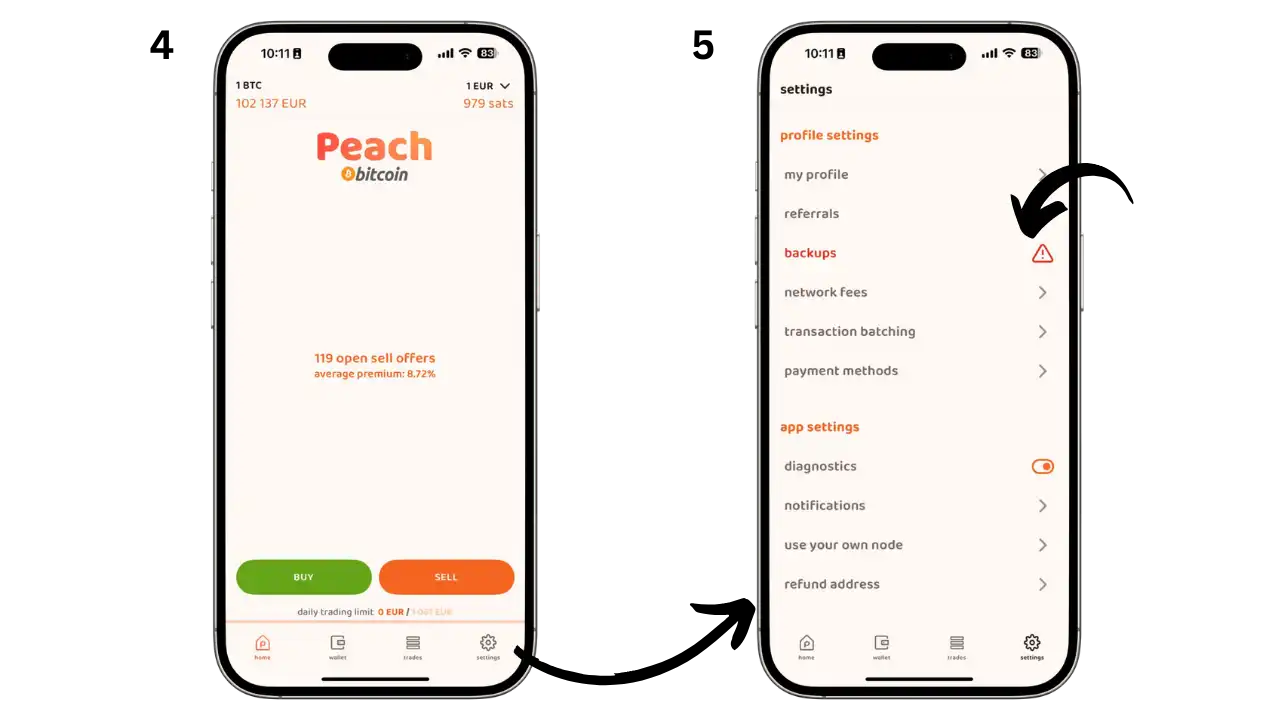
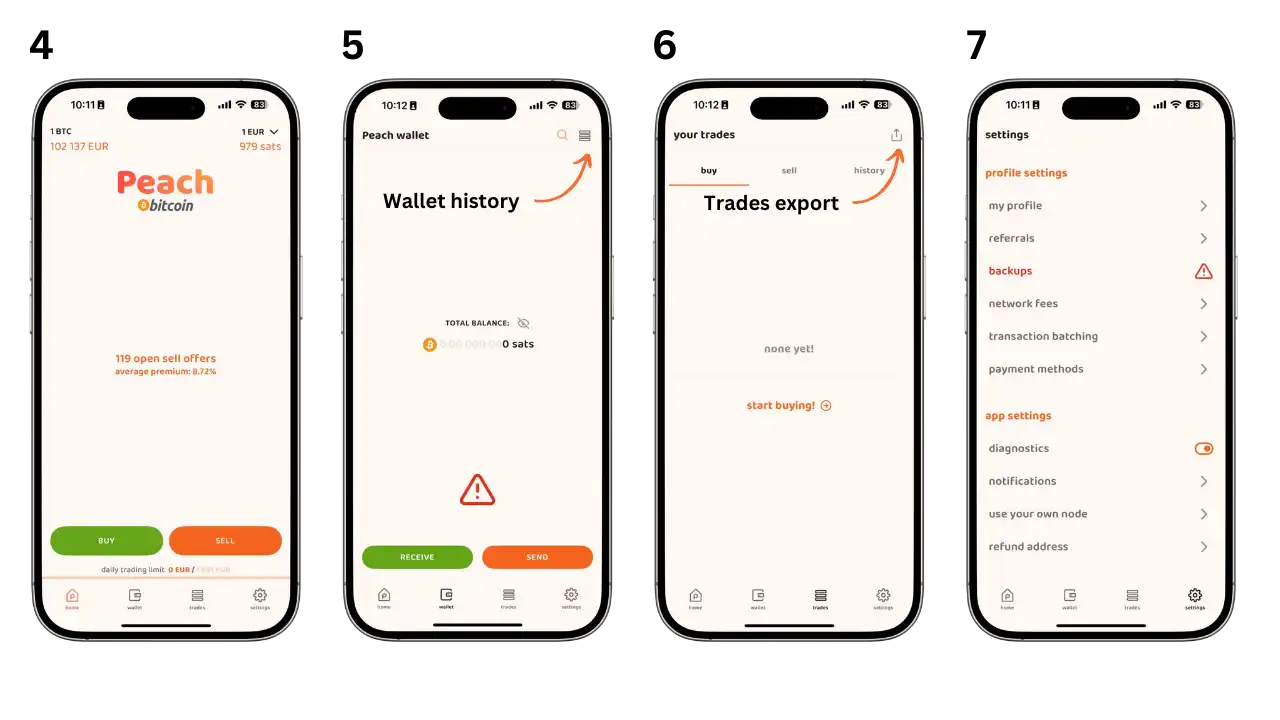
update and add images

Changed region(s): [[0.0, 0.0306, 0.9688, 0.9778]]

diff --git a/tutorials/exchange/peach-v2/fr.md b/tutorials/exchange/peach-v2/fr.md
@@ -5,31 +5,19 @@ description: Guide complet pour utiliser Peach et échanger des bitcoins en P2P
 
 ![cover](assets/cover.webp)
 
-# Introduction
+## Introduction
 
 Les échanges de pair-à-pair (P2P) sans KYC sont essentiels pour préserver la confidentialité et l'autonomie financière des utilisateurs. Ils permettent des transactions directes entre individus sans nécessiter de vérification d'identité, ce qui est crucial pour ceux qui valorisent la vie privée. Pour une compréhension plus approfondie des concepts théoriques, consultez le cours BTC204 :
 
 https://planb.network/courses/btc204
 
-## Qu'est-ce que Peach ?
+### 1. Qu'est-ce que Peach ?
 
 Peach est une plateforme d'échange P2P qui permet aux utilisateurs d'acheter et de vendre des bitcoins sans KYC. Elle offre une interface intuitive et des fonctionnalités de sécurité avancées. Comparée à d'autres solutions comme Bisq, HodlHodl, et Robosat, Peach se distingue par sa simplicité d'utilisation et ses frais réduits.
 
-### Avantages de Peach :
+### 2. Confidentialité et Données Collectées
 
-- **Pas de KYC requis** : Préserve la confidentialité des utilisateurs.
-- **Aucun accès aux données bancaires** : Peach n'a pas accès à vos informations bancaires ni à votre identité.
-- **Interface intuitive** : Facile à utiliser pour les utilisateurs intermédiaires.
-- **Open Source** : Le code source est public et vérifiable par la communauté.
-
-### Inconvénients de Peach :
-
-- **Liquidité limitée** : Moins de volume d'échange comparé à des plateformes plus établies.
-- **Risque réglementaire** : L'application est gérée par une entreprise suisse et est donc soumise à la réglementation suisse qui pourrait évoluer et potentiellement censurer l'application.
-
-## Confidentialité et Données Collectées
-
-### Quelles informations Peach collecte-t-elle ?
+**Quelles informations Peach collecte-t-elle ?**
 
 Peach s'efforce de stocker le minimum absolu de données sur ses utilisateurs. Voici un aperçu des données conservées sur ses serveurs :
 
@@ -50,111 +38,94 @@ Pour rappel un hash est une donnée rendue méconnaissable, similaire à un chif
 
 https://planb.network/fr/courses/cyp201
 
-
-
-### Qui peut voir mes détails de paiement ?
+**Qui peut voir mes détails de paiement ?**
 
 - Seule votre contrepartie peut voir vos détails de paiement
 - Les données sont transmises via les serveurs Peach mais sont entièrement chiffrées de bout en bout
 - En cas de litige, vos détails de paiement et l'historique des conversations seront visibles par le médiateur Peach assigné
 
-# Installation et Configuration
+## Installation et Configuration
 
-## 1. Installer l'application Peach
+### 1. Installer l'application Peach
 
 ![Installation de Peach](assets/fr/01.webp)
 
 1. Téléchargez l'application depuis [Peach Bitcoin](https://peachbitcoin.com/fr/quick-start/).
 2. Suivez les instructions d'installation sur votre appareil.
-3. Lors de l'installation, vous serez invité à choisir si vous souhaitez partager certaines données pour améliorer l'application Peach. (Mockup 1)
-4. Sur l'écran suivant (Mockup 2), vous aurez deux options : 
+3. Lors de l'installation, vous serez invité à choisir si vous souhaitez partager certaines données pour améliorer l'application Peach. (image 1)
+4. Sur l'écran suivant (image 2), vous aurez deux options : 
    - Si vous êtes un nouvel utilisateur, cliquez sur "New user" pour créer un nouveau profil
    - Si vous avez déjà un compte, utilisez "Restore" pour restaurer votre profil existant
 5. Si vous avez un code de parrainage, vous pouvez l'entrer à ce moment-là.
-6. Pour la restauration d'un compte existant (Mockup 3), vous aurez besoin : 
+6. Pour la restauration d'un compte existant (image 3), vous aurez besoin : 
    - De votre fichier de sauvegarde (backup)
    - Du mot de passe permettant de déchiffrer ce fichier
+### 2. Présentation des Écrans Principaux
 
-## 2. Comment sécuriser son portefeuille
+L'application Peach est organisée autour de quatre écrans principaux accessibles depuis la barre de navigation inférieure :
 
-### Comprendre votre compte Peach
+![Navigation dans l'application](assets/fr/02.webp)
 
-Un compte Peach n'est pas un compte traditionnel avec identifiant et mot de passe. C'est un fichier stocké localement sur votre téléphone, ce qui signifie que Peach n'a pas besoin de stocker vos données ni de connaître votre identité : vous gardez le contrôle. Ce fichier contient toutes vos données, des clés de votre portefeuille bitcoin à vos détails de paiement.
+- **Home** : L'écran principal pour acheter et vendre des bitcoins. C'est ici que vous pourrez créer de nouvelles transactions et accéder aux offres disponibles.
 
-Cette approche garantit une meilleure confidentialité mais implique aussi plus de responsabilité. La perte de votre téléphone sans sauvegarde signifie la perte d'accès à votre compte Peach et à vos fonds. Il est donc crucial de sauvegarder ce fichier et de le protéger avec un mot de passe robuste.
+- **Wallet** : Votre portefeuille bitcoin intégré qui vous permet de :
+  - Consulter votre solde
+  - Recevoir des bitcoins
+  - Envoyer des bitcoins
+  - Voir l'historique de vos transactions
 
-### Créer vos sauvegardes
+- **Trades** : Le centre de gestion de vos échanges où vous retrouverez :
+  - Vos transactions en cours
+  - L'historique complet de vos échanges
+  - Le statut de chaque transaction
 
-![Accéder aux sauvegardes](assets/fr/02.webp)
+- **Paramètres** : Le hub de configuration de votre compte permettant de :
+  - Gérer vos méthodes de paiement
+  - Configurer vos sauvegardes
+  - Personnaliser vos préférences
+  - Accéder à l'aide et au support
 
-1. Accédez aux paramètres depuis l'onglet en bas à droite de l'écran d'accueil (Mockup 4)
-2. Sélectionnez l'option "backups" dans le menu des paramètres (Mockup 5)
+### 3. Configurer ses moyens de paiements
 
-![Processus de sauvegarde](assets/fr/03.webp)
+![Accès aux paramètres de paiement](assets/fr/03.webp)
 
-3. Deux types de sauvegardes sont disponibles :
+Accédez aux méthodes de paiement via l'onglet Paramètres (image 8)
 
-#### Sauvegarde du fichier de compte (Mockup 6)
-- Cliquez sur "Create new backup"
-- Créez un mot de passe fort pour chiffrer votre fichier de sauvegarde
-- Conservez ce fichier dans un endroit sûr
+**Paiements en ligne**
 
-#### Sauvegarde de la phrase de récupération (Mockup 7)
-- Suivez les instructions pour afficher votre phrase de récupération
-- Notez soigneusement les mots dans l'ordre exact
-- Stockez cette sauvegarde dans un lieu sécurisé, idéalement différent de celui du fichier de compte
+![Configuration des paiements en ligne](assets/fr/04.webp)
+1. Cliquez sur le bouton pour ajouter un nouveau moyen de paiement
+2. Choisissez votre devise
+3. Sélectionnez votre méthode de paiement préférée
 
-### Différences entre les deux types de sauvegardes
+*Types de méthodes de paiement disponibles*
 
-**La sauvegarde du fichier** permet de restaurer votre compte Peach complet, incluant :
-- Votre portefeuille
-- Vos méthodes de paiement
-- L'historique des conversations
-- Les données de paiement
-- L'historique des transactions avec les détails des contreparties
-
-**La phrase de récupération** permet uniquement de récupérer :
-- L'accès à votre compte
-- Vos fonds bitcoin
-
-Vous perdrez :
-- L'historique des conversations
-- Les données de paiement
-- Les informations des contreparties dans l'historique des transactions
-
-Il est recommandé de réaliser les deux types de sauvegardes pour une sécurité optimale.
-
-## 3. Configurer ses moyens de paiements
-
-Pour maximiser vos opportunités d'échange sur Peach, il est important de configurer vos méthodes de paiement préférées. Voici comment procéder :
-
-### Accéder aux méthodes de paiement
-
-1. Ouvrez l'application Peach
-2. Allez dans **Paramètres > Méthodes de paiement**
-3. Choisissez entre paiement en ligne ou en espèces (rencontres)
-
-### Types de méthodes de paiement disponibles
-
-#### 1. Virements Bancaires
+***Les virements bancaires disponibles :***
 - SEPA (standard ou instantané)
 - Remplissez vos coordonnées bancaires SEPA
 
-#### 2. Portefeuilles en ligne
-- Plusieurs options disponibles selon votre pays
+***Les portefeuilles en ligne acceptés :***
+- Plusieurs options disponibles selon votre pays (Révolut, Paypal, Wise, Strike, etc)
 - Suivez les instructions pour ajouter vos identifiants
 
-#### 3. Cartes Cadeaux
+***La carte cadeaux utilisable :***
 - Amazon
-- Steam
-- Sélectionnez le pays d'émission de la carte
+- Saisissez le pays d'émission de la carte et ainsi que d'autres informations nécessaires
 
-#### 4. Options Nationales
+***Les options de paiement nationales :***
 Systèmes de paiement spécifiques par pays :
 - Satispay (Italie)
 - MB Way (Portugal)
 - Bizum (Espagne)
 - Faster Payments (Royaume-Uni)
+
+**Paiements en personne**
+
+![Configuration des paiements en personne](assets/fr/05.webp)
+1. Sélectionnez "Meetup"
+2. Puis sélectionner votre meetup parmi la liste
+
+
 
 ### Conseils d'utilisation
 
@@ -165,21 +136,116 @@ Systèmes de paiement spécifiques par pays :
 
 > **Note de sécurité** : Vos informations de paiement sont chiffrées et ne sont partagées qu'avec votre partenaire d'échange lors d'une transaction.
 
-# Acheter et Vendre des Bitcoins
+### 4. Comment sécuriser son portefeuille
 
-## 1. Comment Acheter des Bitcoins
+**Comprendre votre compte Peach**
 
-1. Parcourez les offres disponibles dans l'application.
-2. Sélectionnez une offre et suivez les instructions pour effectuer l'achat.
-3. Transférez vos bitcoins vers un portefeuille froid pour plus de sécurité.
+Un compte Peach n'est pas un compte traditionnel avec identifiant et mot de passe. C'est un fichier stocké localement sur votre téléphone, ce qui signifie que Peach n'a pas besoin de stocker vos données ni de connaître votre identité : vous gardez le contrôle. Ce fichier contient toutes vos données, des clés de votre portefeuille bitcoin à vos détails de paiement.
 
-## 2. Comment Vendre des Bitcoins
+Cette approche garantit une meilleure confidentialité mais implique aussi plus de responsabilité. La perte de votre téléphone sans sauvegarde signifie la perte d'accès à votre compte Peach et à vos fonds. Il est donc crucial de sauvegarder ce fichier et de le protéger avec un mot de passe robuste.
 
-1. Créez une offre de vente dans l'application.
-2. Attendez qu'un acheteur réponde à votre offre.
-3. Suivez les instructions pour finaliser la vente.
+**Créer vos sauvegardes**
 
-# Ressources Utiles
+![Accéder aux sauvegardes](assets/fr/13.webp)
+
+- Accédez aux paramètres depuis l'onglet en bas à droite de l'écran d'accueil
+- Sélectionnez l'option "backups" dans le menu des paramètres
+
+![Processus de sauvegarde](assets/fr/06.webp)
+
+Deux types de sauvegardes sont disponibles :
+
+**Sauvegarde du fichier de compte (image 14)**
+- Cliquez sur "Create new backup"
+- Créez un mot de passe fort pour chiffrer votre fichier de sauvegarde
+- Conservez ce fichier dans un endroit sûr
+
+La sauvegarde du fichier permet de restaurer votre compte Peach complet, incluant :
+- Votre portefeuille
+- Vos méthodes de paiement
+- L'historique des conversations
+- Les données de paiement
+- L'historique des transactions avec les détails des contreparties
+
+**Sauvegarde de la phrase de récupération (image 15)**
+- Suivez les instructions pour afficher votre phrase de récupération
+- Notez soigneusement les mots dans l'ordre exact
+- Stockez cette sauvegarde dans un lieu sécurisé, idéalement différent de celui du fichier de compte
+
+La phrase de récupération permet uniquement de récupérer :
+- L'accès à votre compte
+- Vos fonds bitcoin
+
+Vous perdrez :
+- L'historique des conversations
+- Les données de paiement
+- Les informations des contreparties dans l'historique des transactions
+
+Il est recommandé de réaliser les deux types de sauvegardes pour une sécurité optimale.
+
+## Acheter et Vendre des Bitcoins
+
+### 1. Comment Acheter des Bitcoins
+
+![Création et vue des offres](assets/fr/07.webp)
+- Sur l'écran d'accueil, cliquez sur le bouton "Acheter" (image 16)
+- Configurez votre achat selon vos préférences (image 17)
+- Parcourez la liste des offres disponibles (image 18)
+
+![Sélection et confirmation d'achat](assets/fr/08.webp)
+- Sélectionnez l'offre qui vous convient (image 19)
+- Effectuez le paiement selon la méthode convenue
+- Confirmez le paiement dans l'application et évaluez la transaction (image 20)
+
+![Réception des bitcoins](assets/fr/09.webp)
+
+- Suivez le statut de votre transaction
+- Vérifiez la confirmation de la réception des bitcoins
+- Les fonds seront disponibles dans votre portefeuille Peach
+
+### 2. Comment Vendre des Bitcoins
+
+![Création d'un ordre de vente](assets/fr/10.webp)
+- Configurez votre offre de vente (image 24)
+- Financez la transaction en envoyant les bitcoins à l'adresse fournie (image 25)
+- Attendez la confirmation de la transaction (image 26)
+- Votre offre est maintenant visible pour les acheteurs (image 27)
+
+![Attente du paiement](assets/fr/11.webp)
+
+- Surveillez le statut de votre offre
+- Attendez la confirmation du paiement de l'acheteur
+- Vérifiez les détails de la transaction
+
+![Finalisation de la vente](assets/fr/12.webp)
+- Vérifiez le statut du paiement
+- Confirmez la réception du paiement
+- Évaluez la transaction
+- Les bitcoins sont automatiquement libérés vers l'acheteur
+
+**Conseils pour une transaction réussie**
+- Répondez rapidement aux messages de votre contrepartie
+- Vérifiez soigneusement les détails du paiement
+- N'hésitez pas à utiliser le service de médiation en cas de problème
+
+> **Note de sécurité** : Ne confirmez jamais la réception d'un paiement avant d'avoir vérifié qu'il a bien été reçu sur votre compte.
+
+## Avantages et Inconvénients
+
+### Avantages de Peach
+
+- **Pas de KYC requis** : Préserve la confidentialité des utilisateurs.
+- **Aucun accès aux données bancaires** : Peach n'a pas accès à vos informations bancaires ni à votre identité.
+- **Interface intuitive** : Facile à utiliser pour les utilisateurs intermédiaires.
+- **Open Source** : Le code source est public et vérifiable par la communauté.
+
+### Inconvénients de Peach
+
+- **Liquidité limitée** : Moins de volume d'échange comparé à des plateformes plus établies.
+- **Risque réglementaire** : L'application est gérée par une entreprise suisse et est donc soumise à la réglementation suisse qui pourrait évoluer et potentiellement censurer l'application.
+
+## Ressources Utiles
 
 - Vidéo explicative : [YouTube](https://youtu.be/ziwhv9KqVkM)
 - Guide de démarrage rapide : [Peach Bitcoin](https://peachbitcoin.com/fr/quick-start/)
+
